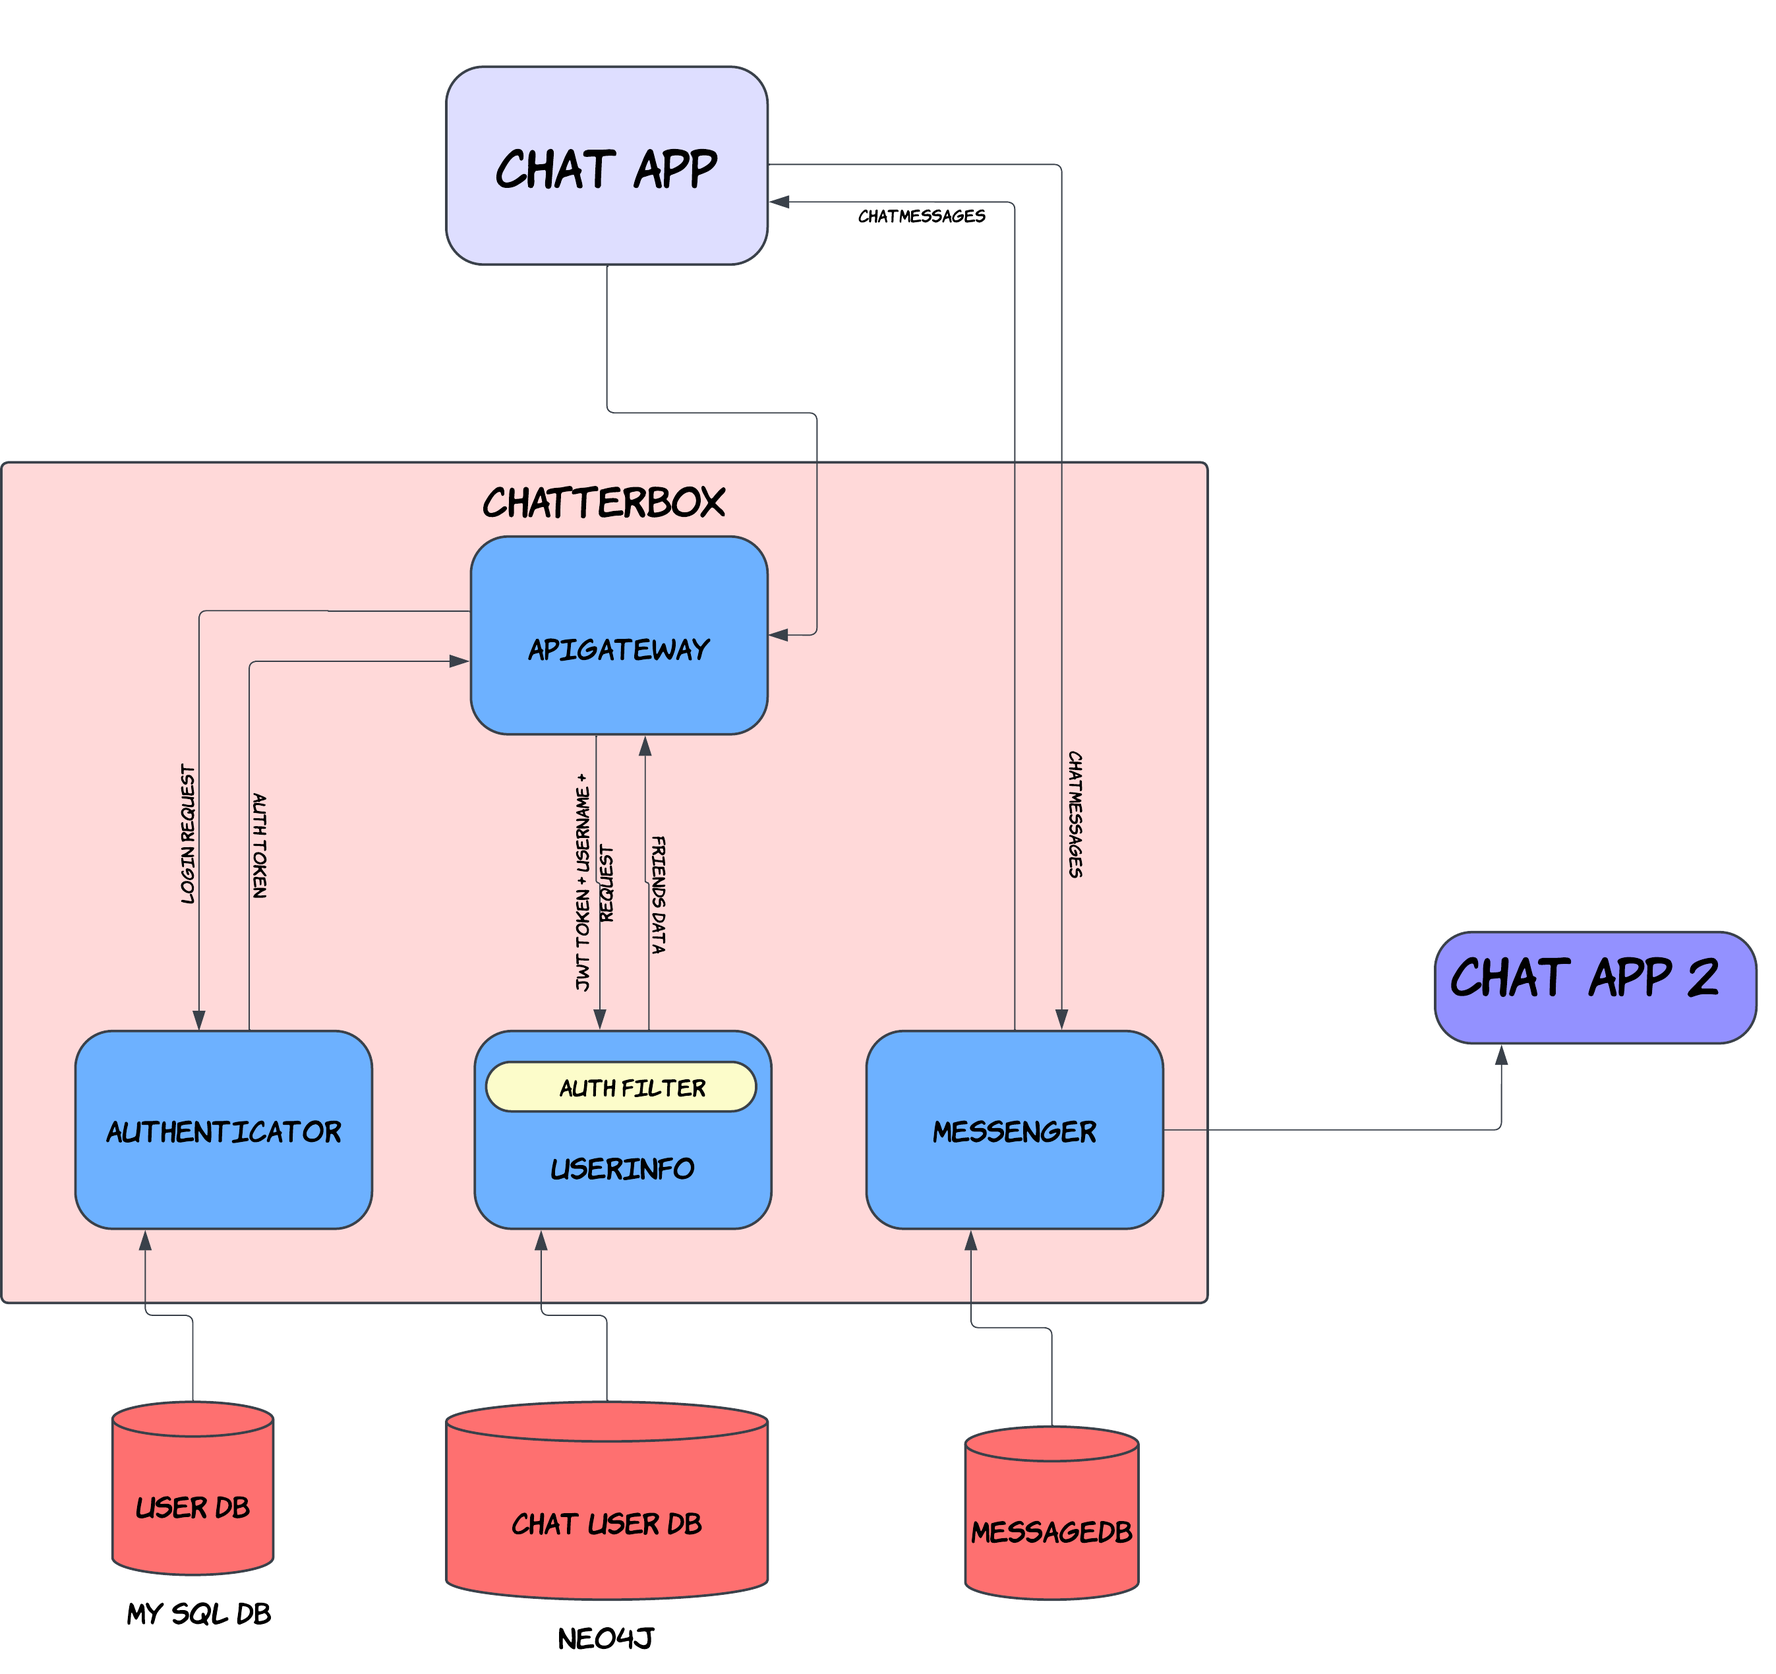
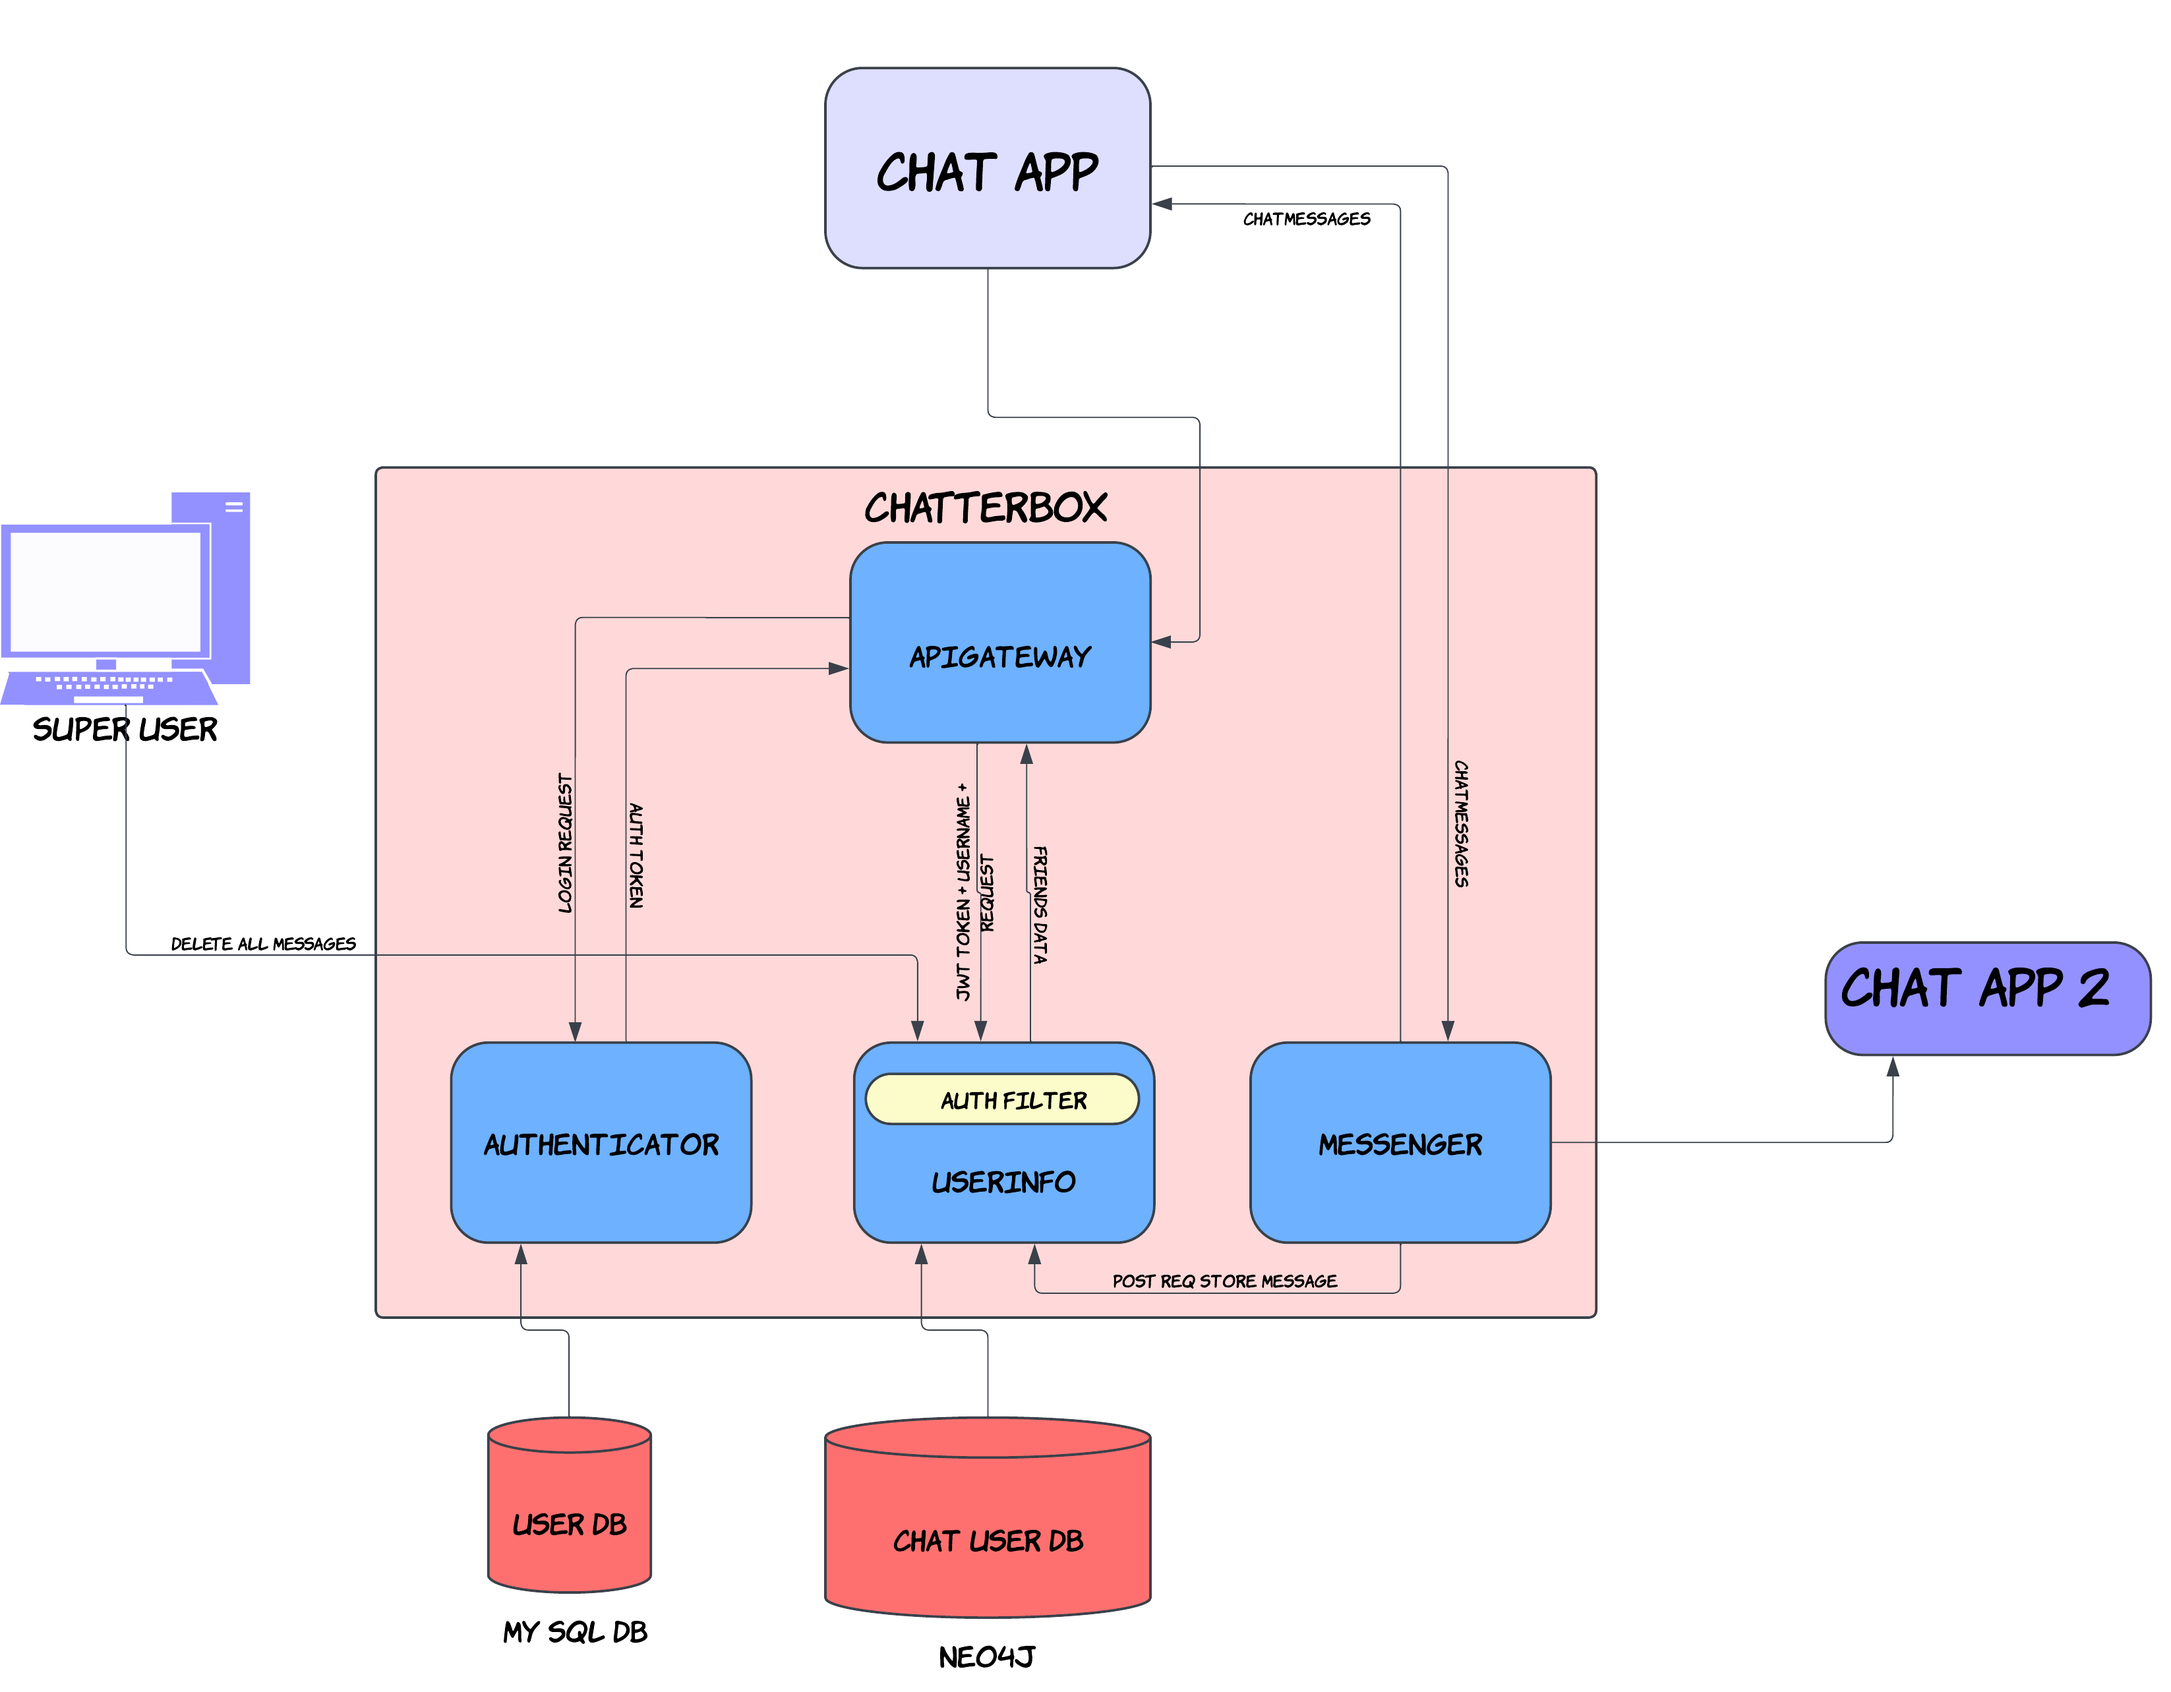
Adding code for storing the message - POST endpoint in userinfo service for handling mesages and storing them in DB async function - Storing messages as the user send them to the server to be directed to the correct user

diff --git a/userinfo/src/main/java/org/harshit/userinfo/Controller/DatabaseController.java b/userinfo/src/main/java/org/harshit/userinfo/Controller/DatabaseController.java
@@ -4,6 +4,7 @@ import java.util.ArrayList;
 import java.util.List;
 
 import org.harshit.userinfo.Utils.Friend;
+import org.harshit.userinfo.Utils.Messages;
 
 import org.neo4j.driver.Driver;
 import org.neo4j.driver.GraphDatabase;
@@ -15,9 +16,11 @@ import org.neo4j.driver.Record;
  * DatabaseController
  */
 public class DatabaseController {
-    private final Driver driver_;
+    private Driver driver_;
 
-    public DatabaseController() {
+    public static DatabaseController instance = new DatabaseController();
+
+    private DatabaseController() {
         String database_uri = "neo4j://localhost:7689";
         driver_ = GraphDatabase.driver(database_uri);
         System.out.println("[DATABASE] Neo4j Driver created");
@@ -44,6 +47,49 @@ public class DatabaseController {
 
         System.out.println("[DATABASE] Ran the db query");
         return friend_list;
+    }
+
+    public Boolean deleteAllMessages() {
+        try {
+            System.out.println("[NEO4J DB CONTROLLER] DELETING ALL MESSAGES");
+            Session session = this.driver_.session();
+            String query1 = "MATCH (m:MESSAGE) DETACH DELETE m;";
+            String query2 = "MATCH ()-[r:SENDER]->() DELETE r;";
+            String query3 = "MATCH ()-[r:RECEIVER]->() DELETE r;";
+            session.run(query1);
+            session.run(query2);
+            session.run(query3);
+            return true;
+        }
+        catch(Exception e) {
+            e.printStackTrace();
+            return false;
+        }
+        
+    }
+
+    public Boolean addMessageToDB(Messages message) {
+        try {
+            System.out.println("[NEO4J DB CONTROLLER] Adding message to the db");
+            Session session = this.driver_.session();
+            String create_msg = String.format("CREATE (m:MESSAGE{id:\"%s\", msg: \"%s\", time:%d});\n", message.getId(), message.getMsg(), message.getTime());
+            String msg_from_query = String.format("MATCH (u1:PERSON{username:\"%s\"})\n", message.getMsg_from());
+            String msg_to_query = String.format("MATCH (u2:PERSON{username:\"%s\"})\n", message.getMsg_to());
+            String relationship_query = String.format("CREATE (u1)-[:SENDER]->(m)-[:RECEIVER{status:%b}]->(u2);", message.getBReceived());
+
+            session.run(create_msg);
+
+            String query = msg_to_query + msg_from_query + relationship_query;
+            session.run(query);
+            return true;
+        }
+        catch (Exception e) {
+            System.out.println("[NEO4J DB CONTROLLER] Encountered an error");
+            e.printStackTrace();
+            return false;
+
+        }
+
     }
 
 }

diff --git a/messenger/src/main/java/org/harshit/messenger/Services/MessagingService.java b/messenger/src/main/java/org/harshit/messenger/Services/MessagingService.java
@@ -2,13 +2,17 @@ package org.harshit.messenger.Services;
 
 import java.util.HashMap;
 import java.util.Map;
+import java.util.UUID;
+import java.util.concurrent.CompletableFuture;
 import java.util.logging.Level;
 import java.util.logging.Logger;
 import java.util.stream.Collectors;
 
+import org.harshit.messenger.Controllers.UserInfoController;
 import org.harshit.messenger.chat.ChatServiceGrpc.ChatServiceImplBase;
 import org.harshit.messenger.chat.Messages.ChatMessage;
 import org.harshit.messenger.chat.Messages.ChatMessageResponse;
+import org.harshit.messenger.utils.UserMessage;
 
 import io.grpc.Status;
 import io.grpc.StatusRuntimeException;
@@ -62,6 +66,10 @@ public class MessagingService extends ChatServiceImplBase{
         StreamObserver<ChatMessage> requestObserver = new StreamObserver<ChatMessage>() {
             @Override
             public void onNext(ChatMessage message) {
+                // Creating message to be stored in the database
+                UUID id = UUID.randomUUID();
+                UserMessage msg_to_store = new UserMessage(id.toString() ,message.getUser().replace("\"", ""), message.getFriend().replace("\"", ""), message.getMessage(), message.getTimestamp(), false);
+                //
                 logger.log(Level.INFO, "Sent a message, "+message.getMessage()+", from user: "+message.getUser()+" to user: "+message.getFriend()+" at time: "+message.getTimestamp());
                 String user = message.getUser();
                 printUserMap();
@@ -75,6 +83,9 @@ public class MessagingService extends ChatServiceImplBase{
                 String friend = message.getFriend().replace("\"", "");
                 if(!userMap.containsKey(friend)) {
                     logger.log(Level.INFO, friend+" is not online");
+                    CompletableFuture.runAsync(()->{
+                        UserInfoController.instance.storeMessage(msg_to_store);
+                    });
                     return;
                 }
                 if(isTerminationMessage(message)) {
@@ -85,6 +96,10 @@ public class MessagingService extends ChatServiceImplBase{
 
                 StreamObserver<ChatMessage> resFriend = userMap.get(friend);
                 resFriend.onNext(message);
+                CompletableFuture.runAsync(()->{
+                    msg_to_store.setBReceived(true);
+                    UserInfoController.instance.storeMessage(msg_to_store);
+                });
             }
 
             @Override
@@ -132,3 +147,4 @@ public class MessagingService extends ChatServiceImplBase{
     }
 
 };
+

diff --git a/messenger/src/main/java/org/harshit/messenger/Controllers/UserInfoController.java b/messenger/src/main/java/org/harshit/messenger/Controllers/UserInfoController.java
@@ -1,0 +1,52 @@
+package org.harshit.messenger.Controllers;
+
+import java.io.OutputStream;
+import java.net.HttpURLConnection;
+import java.net.URI;
+import java.net.URL;
+
+import org.harshit.messenger.utils.UserMessage;
+
+import com.fasterxml.jackson.databind.ObjectMapper;
+
+public class UserInfoController {
+    public static UserInfoController instance = new UserInfoController();
+    private UserInfoController() {}
+
+    public Boolean storeMessage(UserMessage message) {
+        try {
+            String urlString = "http://localhost:8090/postMessage";
+            URI uri = new URI(urlString);
+            URL url = uri.toURL();
+            HttpURLConnection connection = (HttpURLConnection) url.openConnection();
+
+            // Set Request Method to post and configure the connection
+            connection.setRequestMethod("POST");
+            connection.setRequestProperty("Content-Type", "application/json");
+            connection.setRequestProperty("Accept", "application/json");
+            connection.setDoOutput(true);
+
+            // Convert the message to json string
+            ObjectMapper mapper = new ObjectMapper();
+            String json_msg = mapper.writeValueAsString(message);
+
+            // Set the output stream and send the message
+            OutputStream os = connection.getOutputStream();
+            byte[] bytes = json_msg.getBytes();
+            os.write(bytes);
+
+            int code = connection.getResponseCode();
+            if(code == 200) {
+                System.out.println("[MESSENGER CONTROLLER] success from the userinfo server in storing the message");
+                return true;
+            }
+            System.out.println("[MESSENGER CONTROLLER] Failure from the userinfo server in storing the message");
+            return false;
+        }
+        catch (Exception e) {
+            System.out.println("[MESSENGER CONTROLLER] Found an error");
+            e.printStackTrace();
+            return false;
+        }
+    }
+};

diff --git a/userinfo/src/main/java/org/harshit/userinfo/Controller/ApplicationController.java b/userinfo/src/main/java/org/harshit/userinfo/Controller/ApplicationController.java
@@ -8,9 +8,12 @@ import org.springframework.http.HttpStatus;
 import org.springframework.http.ResponseEntity;
 import org.springframework.stereotype.Controller;
 import org.springframework.web.bind.annotation.GetMapping;
+import org.springframework.web.bind.annotation.PostMapping;
+import org.springframework.web.bind.annotation.RequestBody;
 import org.springframework.web.bind.annotation.RequestParam;
 
 import org.harshit.userinfo.Utils.Friend;
+import org.harshit.userinfo.Utils.Messages;
 
 @Controller
 public class ApplicationController {
@@ -18,7 +21,7 @@ public class ApplicationController {
     @GetMapping("/chat")
     public ResponseEntity<GetResponse> getContactList(@RequestParam String userid) {
         System.out.println("[CONTROLLER] Called Get Contact List api with userid: "+userid);
-        DatabaseController db_controller = new DatabaseController();
+        DatabaseController db_controller = DatabaseController.instance;
         try {
             List<Friend> records = db_controller.getFriendsList(userid);
             GetResponse response = new GetResponse();
@@ -30,6 +33,18 @@ public class ApplicationController {
             System.out.println("[CONTROLLER] Failed to get the contact list");
             return new ResponseEntity<>(HttpStatus.INTERNAL_SERVER_ERROR);
         }
+    }
+
+    @PostMapping("/postMessage")
+    public ResponseEntity<Boolean> postMessages(@RequestBody Messages message) {
+        DatabaseController controller = DatabaseController.instance;
+        if(controller.addMessageToDB(message)) {
+            return new ResponseEntity<>(true, HttpStatus.OK);
+        }
+        else {
+            return new ResponseEntity<>(false, HttpStatus.SERVICE_UNAVAILABLE);
+        }
+
     }
 
 }

diff --git a/userinfo/src/main/java/org/harshit/userinfo/Utils/Messages.java b/userinfo/src/main/java/org/harshit/userinfo/Utils/Messages.java
@@ -1,0 +1,73 @@
+package org.harshit.userinfo.Utils;
+
+/**
+ * Messages
+ */
+public class Messages {
+    private String id;
+    private String msg_from;
+    private String msg_to;
+    private String msg;
+    private long time;
+    private Boolean bReceived;
+
+
+    public Messages(String id, String from, String to, String msg, long time, Boolean status) {
+        this.id = id;
+        this.msg_from = from;
+        this.msg_to = to;
+        this.msg = msg;
+        this.time = time;
+        this.bReceived = status;
+    }
+
+    public String getId() {
+        return this.id;
+    }
+
+    public void setId(String id) {
+        this.id = id;
+    }
+
+    public String getMsg_from() {
+        return msg_from;
+    }
+
+    public void setMsg_from(String from) {
+        this.msg_from = from;
+    }
+
+    public String getMsg_to() {
+        return this.msg_to;
+    }
+    
+    public void setMsg_to(String to) {
+        this.msg_to = to;
+    }
+
+    public long getTime() {
+        return this.time;
+    }
+
+    public void setTime(long time){
+        this.time = time;
+    }
+
+    public Boolean getBReceived() {
+        return this.bReceived;
+    }
+
+    public void setBReceived(Boolean status){
+        this.bReceived = status;
+    }
+
+    public String getMsg() {
+        return this.msg;
+    }
+
+    public void setMsg(String msg) {
+        this.msg = msg;
+    }
+
+
+};

diff --git a/messenger/src/main/java/org/harshit/messenger/utils/UserMessage.java b/messenger/src/main/java/org/harshit/messenger/utils/UserMessage.java
@@ -1,0 +1,68 @@
+package org.harshit.messenger.utils;
+
+public class UserMessage {
+    private String id;
+    private String msg_from;
+    private String msg_to;
+    private String msg;
+    private long time;
+    private Boolean bReceived;
+
+    public UserMessage(String id, String from, String to, String msg, long time, Boolean status) {
+        this.id = id;
+        this.msg_from = from;
+        this.msg_to = to;
+        this.msg = msg;
+        this.time = time;
+        this.bReceived = status;
+    }
+    
+    public String getId() {
+        return this.id;
+    }
+
+    public void setId(String id) {
+        this.id = id;
+    }
+
+    public String getMsg_from() {
+        return msg_from;
+    }
+
+    public void setMsg_from(String from) {
+        this.msg_from = from;
+    }
+
+    public String getMsg_to() {
+        return this.msg_to;
+    }
+    
+    public void setMsg_to(String to) {
+        this.msg_to = to;
+    }
+
+    public long getTime() {
+        return this.time;
+    }
+
+    public void setTime(long time){
+        this.time = time;
+    }
+
+    public Boolean getBReceived() {
+        return this.bReceived;
+    }
+
+    public void setBReceived(Boolean status){
+        this.bReceived = status;
+    }
+
+    public String getMsg() {
+        return this.msg;
+    }
+
+    public void setMsg(String msg) {
+        this.msg = msg;
+    }
+
+};

diff --git a/userinfo/src/main/java/org/harshit/userinfo/Utils/Friend.java b/userinfo/src/main/java/org/harshit/userinfo/Utils/Friend.java
@@ -35,3 +35,4 @@ public class Friend {
         return "Name: "+name+" Last chat at: "+lastChat;
     }
 }
+

diff --git a/README.md b/README.md
@@ -15,7 +15,10 @@ Finally the core functionality is Handled by `messenger` service. It is a gRPC s
 
 ## The DATABASES
 - MySQL for storing usernames, password etc.
-- Neo4j for storing all the relationships between users. Like who is friends with whom etc. 
+- Neo4j for storing all the relationships between users. Like who is friends with whom etc.
+
+**Example of the neo4j database**
+![NEO 4j DB](images/Neo4j_DB.png)
 
 ## The APIs 
 
